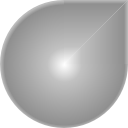
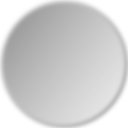
Update toolcircle background graphism
git-svn-id: svn://svn.code.sf.net/p/opencity/code/trunk/opencity@247 4df0e195-e415-0410-b392-bf8c90aee73a

diff --git a/src/city.cpp b/src/city.cpp
@@ -980,7 +980,7 @@ City::_CreateGUI()
 	pbarPower = new GUIBar( 42, 5, 7, 53 );
 	pbarPower->SetForeground( OPENCITY_PALETTE[Color::OC_PINK] );
 
-	pctrStatus = new GUIContainer( (_iWinWidth-512) / 2, 0, 512, 64, ocHomeDirPrefix( "graphism/gui/main_status_bar.png" ));
+	pctrStatus = new GUIContainer( (_iWinWidth-512) / 2, 0, 512, 64, ocHomeDirPrefix( "graphism/gui/main_status_bar.png" ) );
 	pctrStatus->Add( pbtnPause );
 	pctrStatus->Add( pbtnPlay );
 	pctrStatus->Add( plblFund );
@@ -993,14 +993,14 @@ City::_CreateGUI()
 	pctrStatus->Set( OC_GUIMAIN_VISIBLE );
 
 // GUI main toolcircle
-	pbtnZ = new GUIButton(  20,  70, 30, 30, ocHomeDirPrefix( "graphism/gui/residential" ));
-	pbtnS = new GUIButton( 100,  70, 30, 30, ocHomeDirPrefix( "graphism/gui/save" ));
-	pbtnL = new GUIButton(  20,  20, 30, 30, ocHomeDirPrefix( "graphism/gui/power" ));
-	pbtnP = new GUIButton(  60,   0, 30, 30, ocHomeDirPrefix( "graphism/gui/road" ));
-	pbtnX = new GUIButton(  100, 20, 30, 30, ocHomeDirPrefix( "graphism/gui/bulldozer" ));
-	pbtnG = new GUIButton(  60,  90, 30, 30, ocHomeDirPrefix( "graphism/gui/government" ));
+	pbtnZ = new GUIButton( 19, 73, 30, 30, ocHomeDirPrefix( "graphism/gui/residential" ));
+	pbtnS = new GUIButton( 91, 73, 30, 30, ocHomeDirPrefix( "graphism/gui/save" ));
+	pbtnL = new GUIButton( 19, 33, 30, 30, ocHomeDirPrefix( "graphism/gui/power" ));
+	pbtnP = new GUIButton( 55, 13, 30, 30, ocHomeDirPrefix( "graphism/gui/road" ));
+	pbtnX = new GUIButton( 91, 33, 30, 30, ocHomeDirPrefix( "graphism/gui/bulldozer" ));
+	pbtnG = new GUIButton( 55, 93, 30, 30, ocHomeDirPrefix( "graphism/gui/government" ));
 
-	pctrMain = new GUIContainer( 100, 100, 140, 140 );
+	pctrMain = new GUIContainer( 100, 100, 140, 140, ocHomeDirPrefix( "graphism/gui/toolcircle_bg.png" ) );
 	pctrMain->Add( pbtnZ );
 	pctrMain->Add( pbtnS );
 	pctrMain->Add( pbtnL );
@@ -1010,12 +1010,12 @@ City::_CreateGUI()
 
 
 // GUI Z toolcircle for RCI buttons
-	pbtnZB = new GUIButton( 20,  70,  30, 30, ocHomeDirPrefix( "graphism/gui/back" ));
-	pbtnZR = new GUIButton( 20,  20,  30, 30, ocHomeDirPrefix( "graphism/gui/residential" ));
-	pbtnZC = new GUIButton( 60,  0,   30, 30, ocHomeDirPrefix( "graphism/gui/commercial" ));
-	pbtnZI = new GUIButton( 100, 20,  30, 30, ocHomeDirPrefix( "graphism/gui/industrial" ));
+	pbtnZB = new GUIButton( 19, 73,  30, 30, ocHomeDirPrefix( "graphism/gui/back" ));
+	pbtnZR = new GUIButton( 19, 33,  30, 30, ocHomeDirPrefix( "graphism/gui/residential" ));
+	pbtnZC = new GUIButton( 55, 13,  30, 30, ocHomeDirPrefix( "graphism/gui/commercial" ));
+	pbtnZI = new GUIButton( 91, 33,  30, 30, ocHomeDirPrefix( "graphism/gui/industrial" ));
 
-	pctrZ = new GUIContainer( 100, 100, 140, 140 );
+	pctrZ = new GUIContainer( 100, 100, 140, 140, ocHomeDirPrefix( "graphism/gui/toolcircle_bg.png" ) );
 	pctrZ->Add( pbtnZB );
 	pctrZ->Add( pbtnZR );
 	pctrZ->Add( pbtnZC );
@@ -1023,12 +1023,12 @@ City::_CreateGUI()
 
 
 // GUI L toolcircle ( electric lines, electric plants )
-	pbtnLB = new GUIButton( 20,  20,  30, 30, ocHomeDirPrefix( "graphism/gui/back" ));
-	pbtnLL = new GUIButton( 60,  0,   30, 30, ocHomeDirPrefix( "graphism/gui/power_line" ));
-	pbtnLN = new GUIButton( 100, 20,  30, 30, ocHomeDirPrefix( "graphism/gui/power_plant_nuclear" ));
-	pbtnLC = new GUIButton( 100, 70,  30, 30, ocHomeDirPrefix( "graphism/gui/power_plant_coal" ));
+	pbtnLB = new GUIButton( 19, 33, 30, 30, ocHomeDirPrefix( "graphism/gui/back" ));
+	pbtnLL = new GUIButton( 55, 13, 30, 30, ocHomeDirPrefix( "graphism/gui/power_line" ));
+	pbtnLN = new GUIButton( 91, 33, 30, 30, ocHomeDirPrefix( "graphism/gui/power_plant_nuclear" ));
+	pbtnLC = new GUIButton( 91, 73, 30, 30, ocHomeDirPrefix( "graphism/gui/power_plant_coal" ));
 
-	pctrL = new GUIContainer( 100, 100, 140, 140 );
+	pctrL = new GUIContainer( 100, 100, 140, 140, ocHomeDirPrefix( "graphism/gui/toolcircle_bg.png" ) );
 	pctrL->Add( pbtnLB );
 	pctrL->Add( pbtnLL );
 	pctrL->Add( pbtnLN );
@@ -1036,13 +1036,13 @@ City::_CreateGUI()
 
 
 // GUI T toolcircle ( raise, lower terrain )
-	pbtnTU = new GUIButton( 20,  20,  30, 30, ocHomeDirPrefix( "graphism/gui/raise" ));
-	pbtnTD = new GUIButton( 60,  0,   30, 30, ocHomeDirPrefix( "graphism/gui/lower" ));
-	pbtnTB = new GUIButton( 100, 20,  30, 30, ocHomeDirPrefix( "graphism/gui/back" ));
-	pbtnTX = new GUIButton( 20,  70,  30, 30, ocHomeDirPrefix( "graphism/gui/destroy" ));
-	pbtnTQ = new GUIButton( 100, 70, 30, 30, ocHomeDirPrefix( "graphism/gui/query" ));
+	pbtnTU = new GUIButton( 19, 33, 30, 30, ocHomeDirPrefix( "graphism/gui/raise" ));
+	pbtnTD = new GUIButton( 55, 13, 30, 30, ocHomeDirPrefix( "graphism/gui/lower" ));
+	pbtnTB = new GUIButton( 91, 33, 30, 30, ocHomeDirPrefix( "graphism/gui/back" ));
+	pbtnTX = new GUIButton( 19, 73, 30, 30, ocHomeDirPrefix( "graphism/gui/destroy" ));
+	pbtnTQ = new GUIButton( 91, 73, 30, 30, ocHomeDirPrefix( "graphism/gui/query" ));
 
-	pctrT = new GUIContainer( 100, 100, 140, 140 );
+	pctrT = new GUIContainer( 100, 100, 140, 140, ocHomeDirPrefix( "graphism/gui/toolcircle_bg.png" ) );
 	pctrT->Add( pbtnTB );
 	pctrT->Add( pbtnTU );
 	pctrT->Add( pbtnTD );
@@ -1051,14 +1051,14 @@ City::_CreateGUI()
 
 
 // GUI Gouvernement toolcircle ( park, education, hospital, police and fire )
-	pbtnGB = new GUIButton(  60,  90, 30, 30, ocHomeDirPrefix( "graphism/gui/back" ));
-	pbtnGP = new GUIButton(  20,  70, 30, 30, ocHomeDirPrefix( "graphism/gui/park" ));
-	pbtnGE = new GUIButton( 100,  70, 30, 30, ocHomeDirPrefix( "graphism/gui/education" ));
-	pbtnGH = new GUIButton(  20,  20, 30, 30, ocHomeDirPrefix( "graphism/gui/hospital" ));
-	pbtnGL = new GUIButton(  60,   0, 30, 30, ocHomeDirPrefix( "graphism/gui/police" ));
-	pbtnGF = new GUIButton(  100, 20, 30, 30, ocHomeDirPrefix( "graphism/gui/fire" ));
+	pbtnGB = new GUIButton( 55, 93, 30, 30, ocHomeDirPrefix( "graphism/gui/back" ));
+	pbtnGP = new GUIButton( 19, 73, 30, 30, ocHomeDirPrefix( "graphism/gui/park" ));
+	pbtnGE = new GUIButton( 91, 73, 30, 30, ocHomeDirPrefix( "graphism/gui/education" ));
+	pbtnGH = new GUIButton( 19, 33, 30, 30, ocHomeDirPrefix( "graphism/gui/hospital" ));
+	pbtnGL = new GUIButton( 55, 13, 30, 30, ocHomeDirPrefix( "graphism/gui/police" ));
+	pbtnGF = new GUIButton( 91, 33, 30, 30, ocHomeDirPrefix( "graphism/gui/fire" ));
 
-	pctrG = new GUIContainer( 100, 100, 140, 140 );
+	pctrG = new GUIContainer( 100, 100, 140, 140, ocHomeDirPrefix( "graphism/gui/toolcircle_bg.png" ) );
 	pctrG->Add( pbtnGB );
 	pctrG->Add( pbtnGP );
 	pctrG->Add( pbtnGE );
@@ -1068,22 +1068,22 @@ City::_CreateGUI()
 
 
 // Create the nature container
-	pbtnNB = new GUIButton(  20,  70, 30, 30, ocHomeDirPrefix( "graphism/gui/back" ));
-	pbtnNP = new GUIButton(  60,  90, 30, 30, ocHomeDirPrefix( "graphism/gui/park" ));
-	pbtnNT = new GUIButton( 100,  70, 30, 30, ocHomeDirPrefix( "graphism/gui/tree" ));
+	pbtnNB = new GUIButton( 19, 73, 30, 30, ocHomeDirPrefix( "graphism/gui/back" ));
+	pbtnNP = new GUIButton( 55, 91, 30, 30, ocHomeDirPrefix( "graphism/gui/park" ));
+	pbtnNT = new GUIButton( 91, 73, 30, 30, ocHomeDirPrefix( "graphism/gui/tree" ));
 
-	pctrN = new GUIContainer( 100, 100, 140, 140 );
+	pctrN = new GUIContainer( 100, 100, 140, 140, ocHomeDirPrefix( "graphism/gui/toolcircle_bg.png" ) );
 	pctrN->Add( pbtnNB );
 	pctrN->Add( pbtnNP );
 	pctrN->Add( pbtnNT );
 
 
 // Create save/load buttons and the container
-	pbtnSL = new GUIButton(  20,  70, 30, 30, ocHomeDirPrefix( "graphism/gui/save_load" ));
-	pbtnSS = new GUIButton(  60,  90, 30, 30, ocHomeDirPrefix( "graphism/gui/save_save" ));
-	pbtnSB = new GUIButton( 100,  70, 30, 30, ocHomeDirPrefix( "graphism/gui/back" ));
+	pbtnSL = new GUIButton( 19, 73, 30, 30, ocHomeDirPrefix( "graphism/gui/save_load" ));
+	pbtnSS = new GUIButton( 55, 91, 30, 30, ocHomeDirPrefix( "graphism/gui/save_save" ));
+	pbtnSB = new GUIButton( 91, 73, 30, 30, ocHomeDirPrefix( "graphism/gui/back" ));
 
-	pctrS = new GUIContainer( 100, 100, 140, 140 );
+	pctrS = new GUIContainer( 100, 100, 140, 140, ocHomeDirPrefix( "graphism/gui/toolcircle_bg.png" ) );
 	pctrS->Add( pbtnSB );
 	pctrS->Add( pbtnSS );
 	pctrS->Add( pbtnSL );
